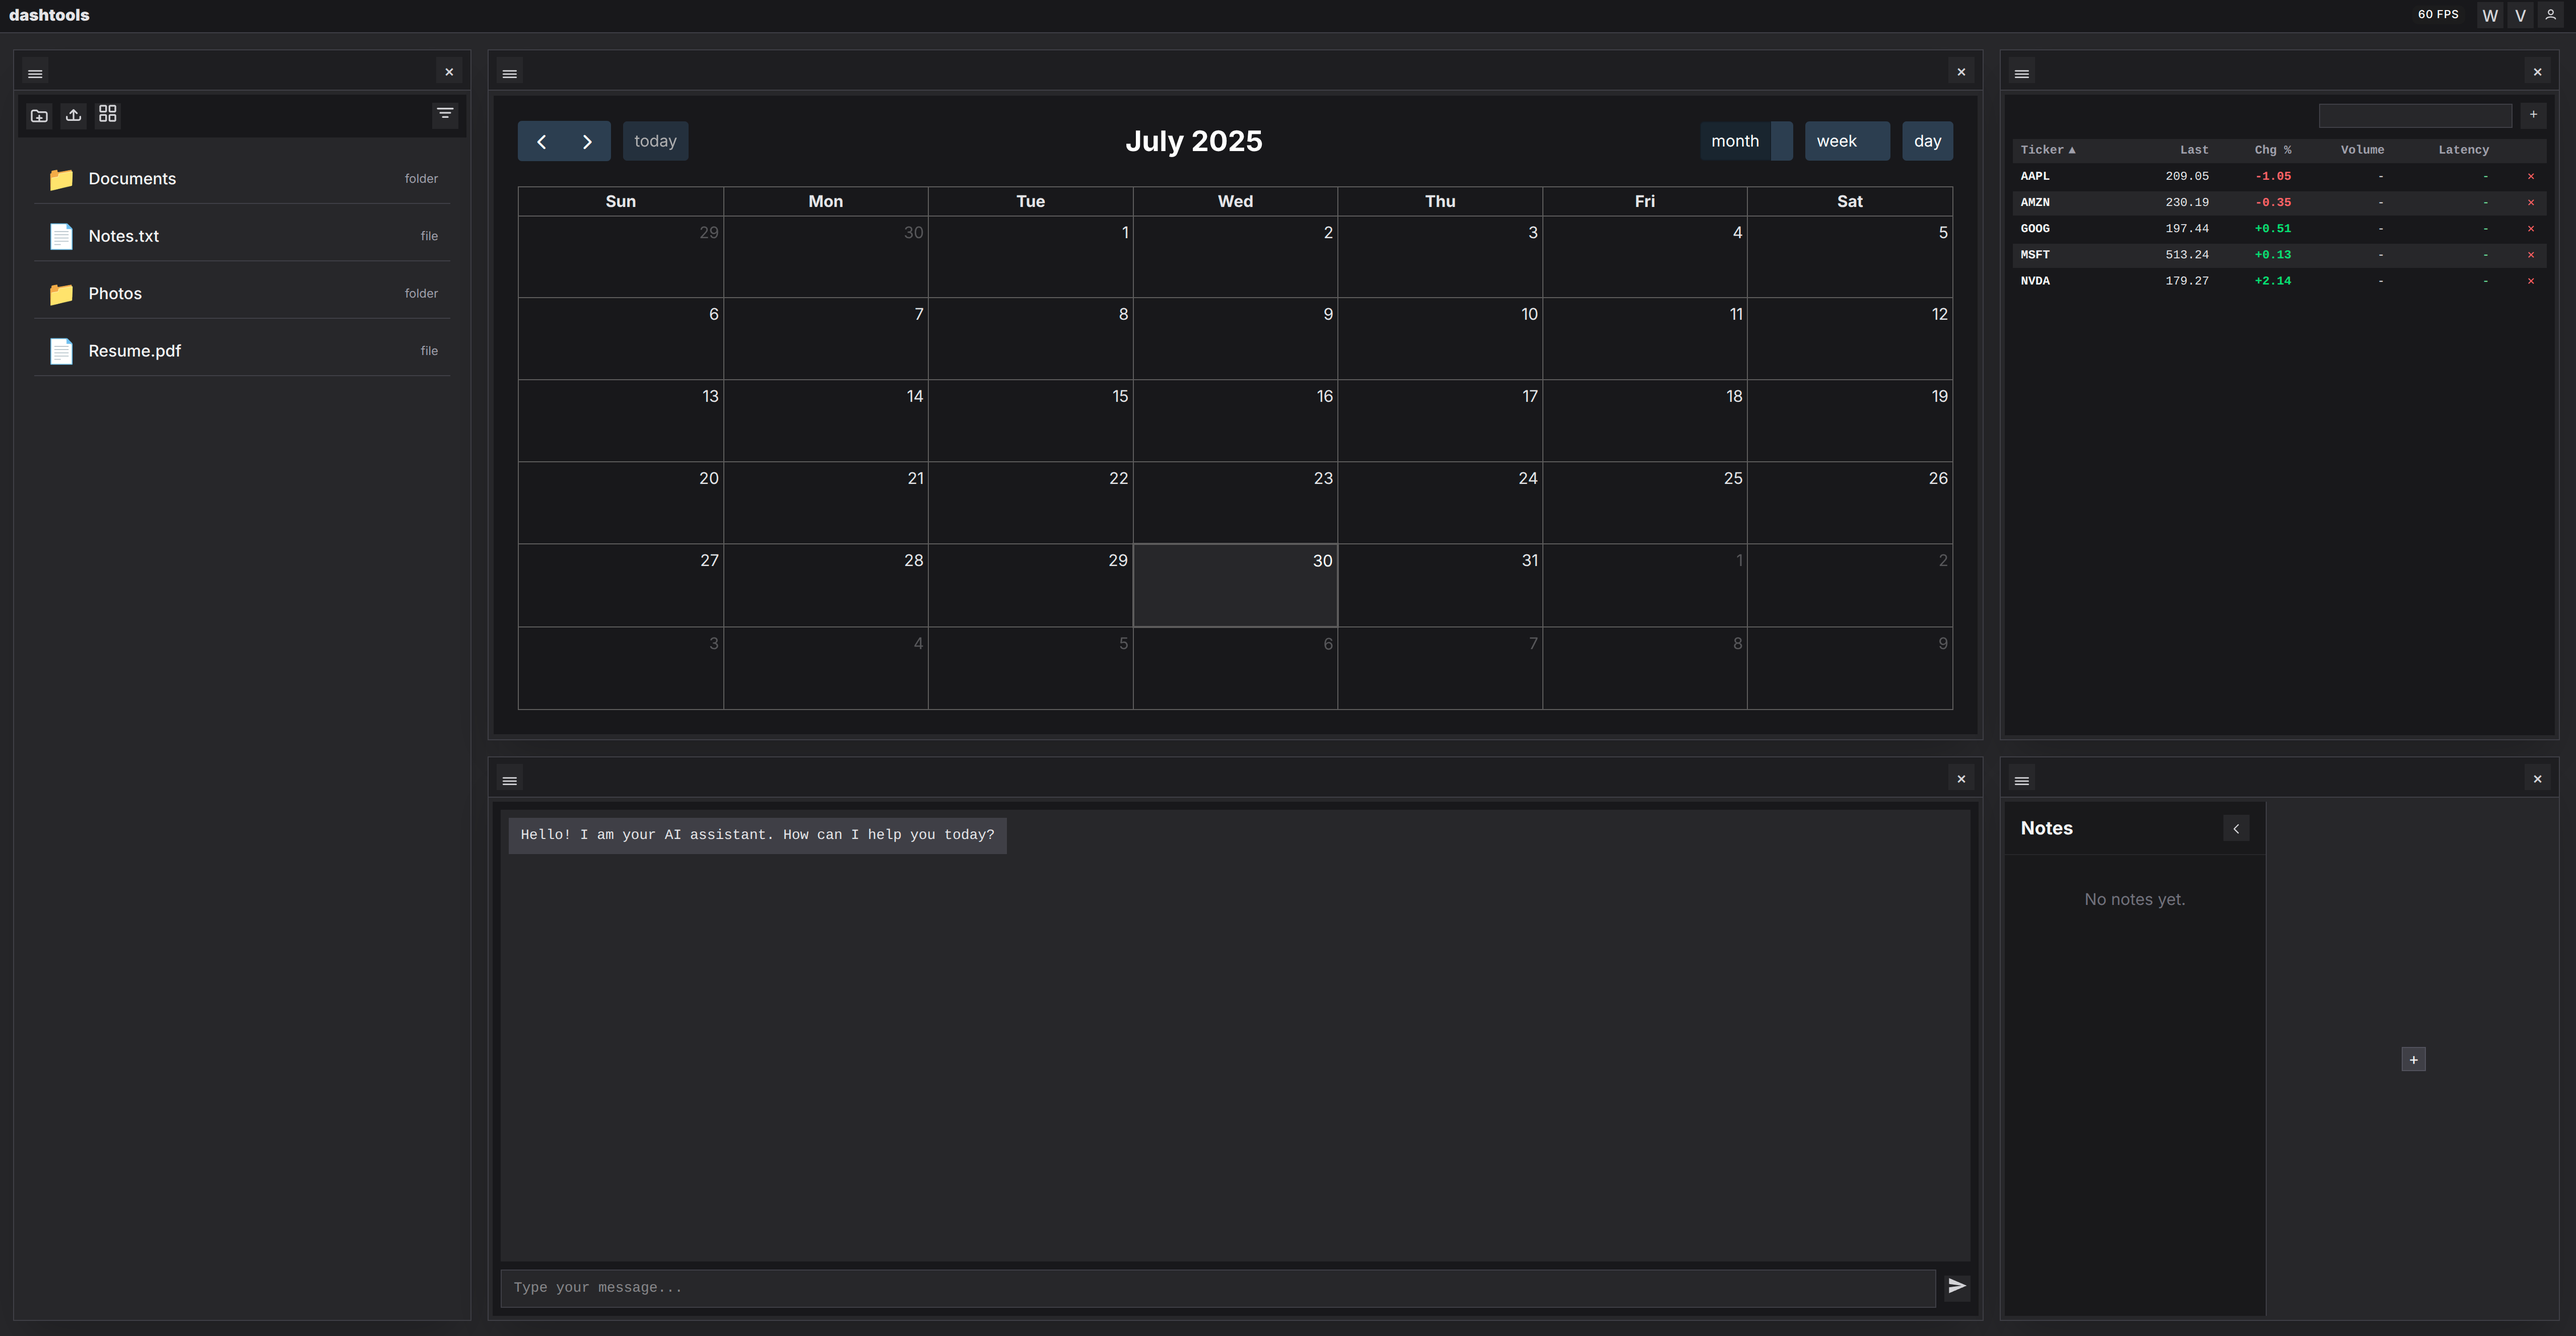
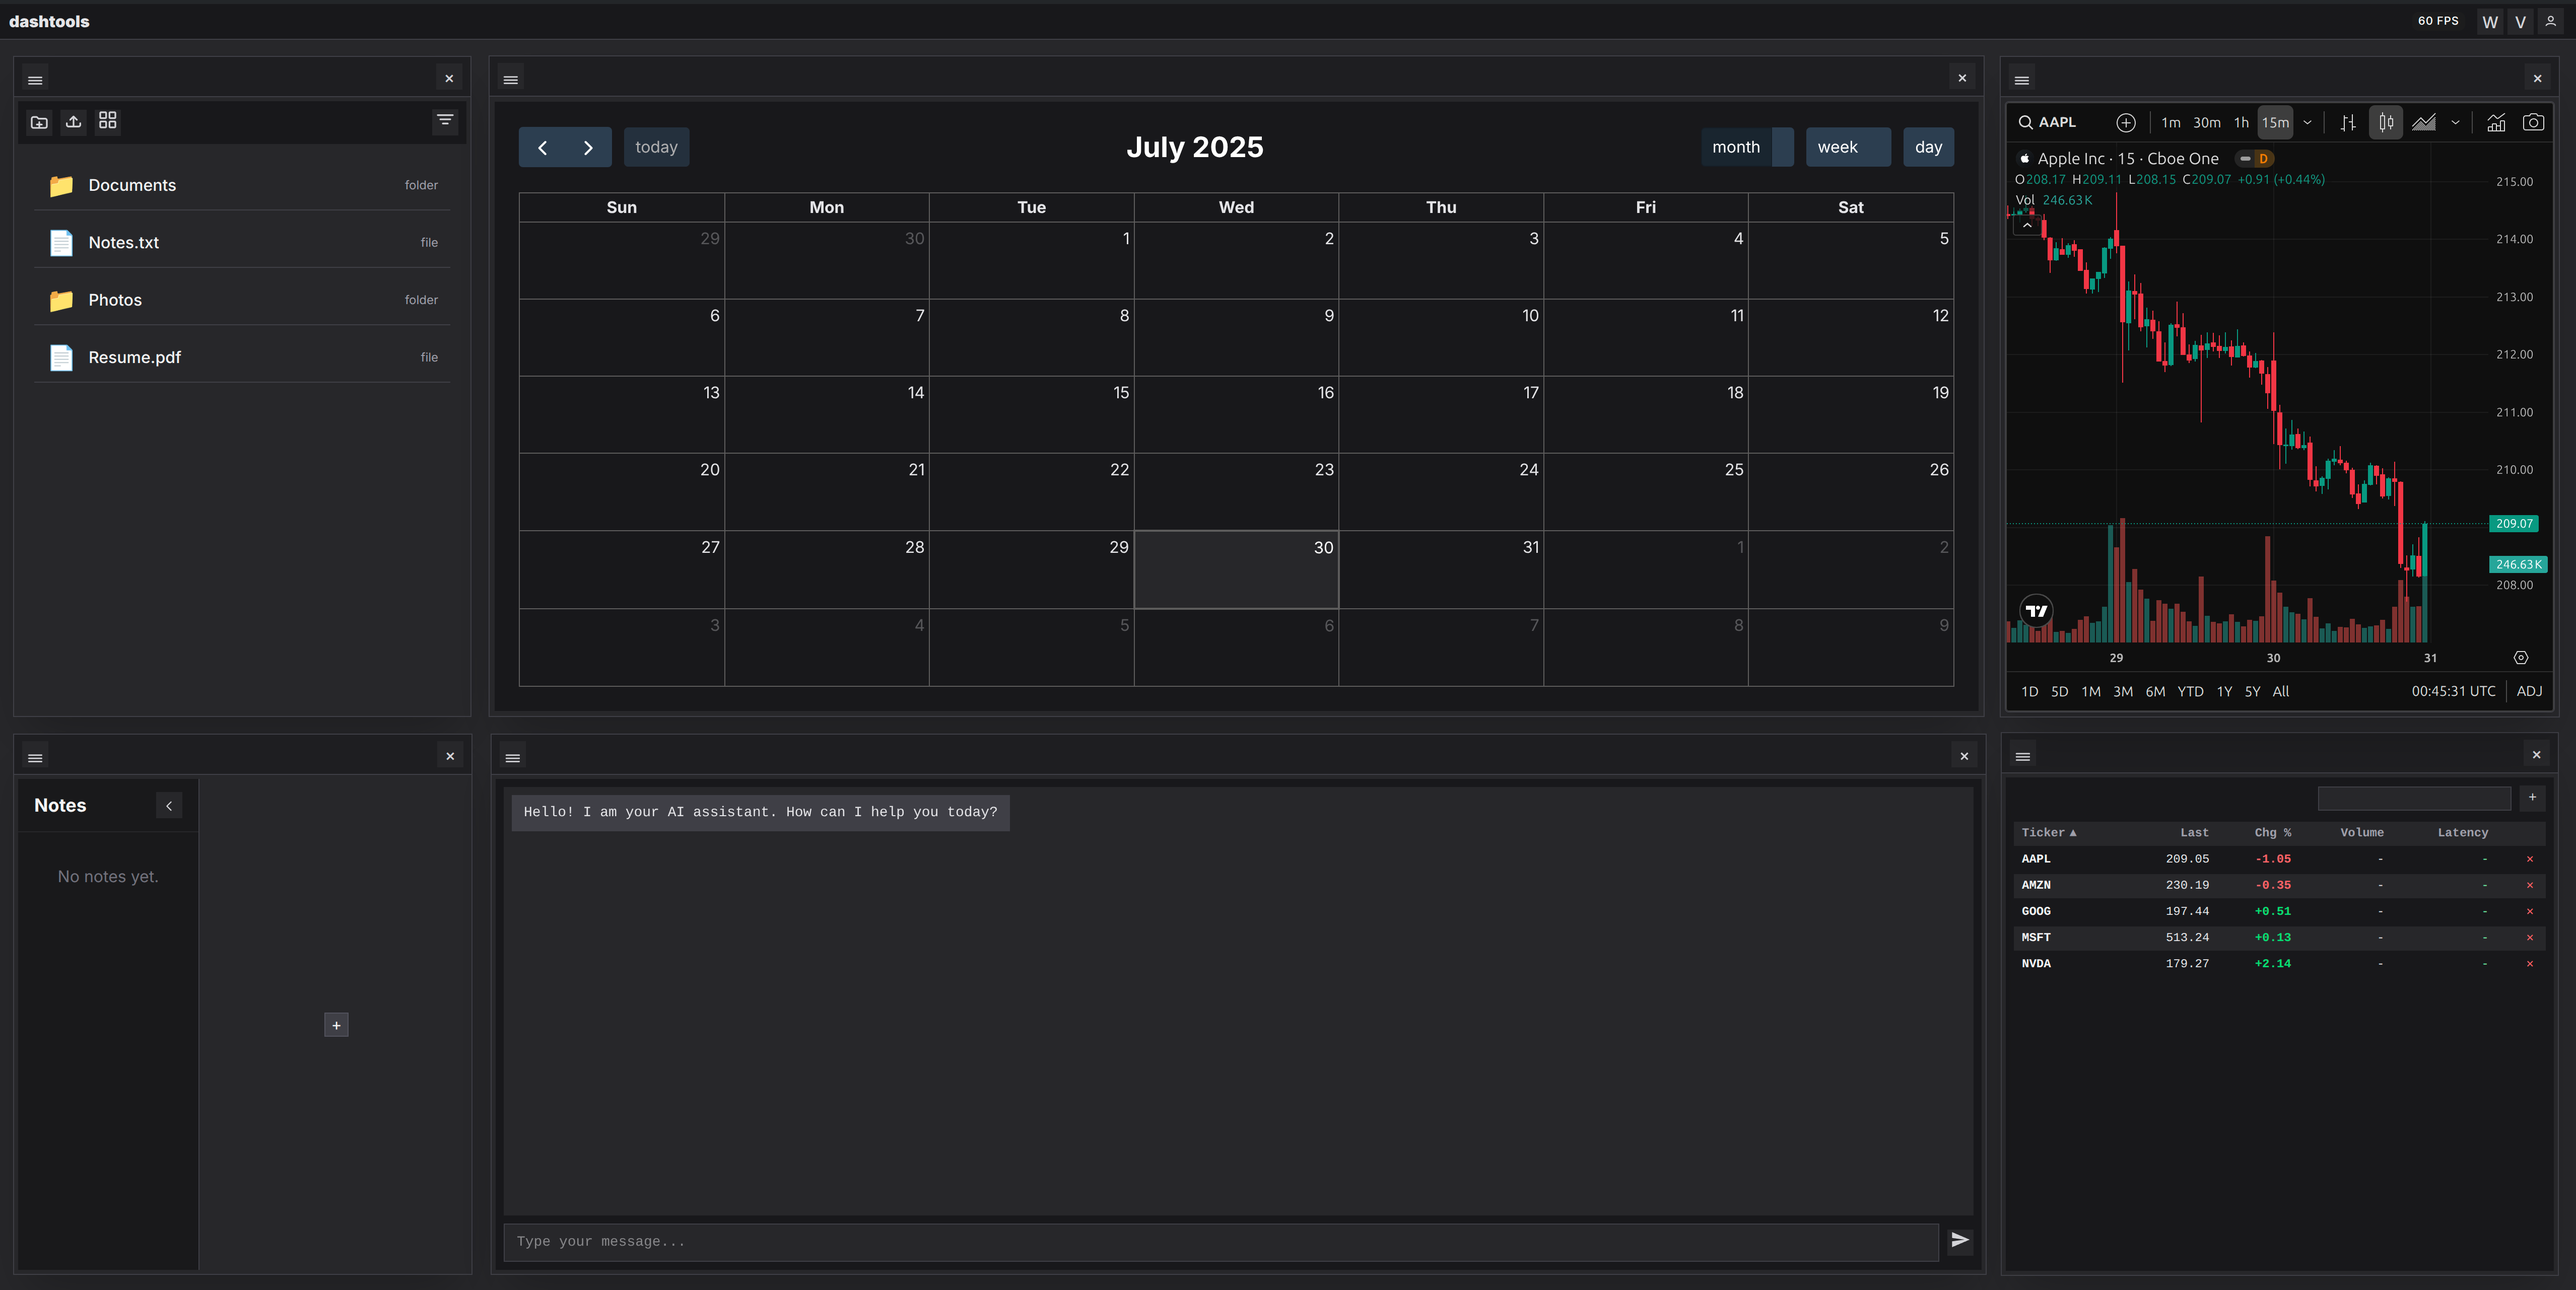
* updated default layout

diff --git a/src/hooks/useInitialWorkspaceLayout.ts b/src/hooks/useInitialWorkspaceLayout.ts
@@ -22,14 +22,16 @@ export function useInitialWorkspaceLayout({
         const sidebarWidth = Math.max(300, Math.floor(w * 0.18));
         const rightWidth = Math.max(320, Math.floor(w * 0.22));
         const centerWidth = w - sidebarWidth - rightWidth - GAP * 2;
+        const leftHeight = h;
         const topHeight = Math.floor(h * 0.55) - GAP / 2;
         const bottomHeight = h - topHeight - GAP;
         const windows = [
-          { x: GAP, y: GAP, width: sidebarWidth, height: h, title: 'Files', content: 'files' as WindowContent, notes: '' },
+          { x: GAP, y: GAP, width: sidebarWidth, height: leftHeight, title: 'Files', content: 'files' as WindowContent, notes: '' },
           { x: GAP + sidebarWidth + GAP, y: GAP, width: centerWidth, height: topHeight, title: 'Calendar', content: 'calendar' as WindowContent, notes: '' },
-          { x: GAP + sidebarWidth + GAP + centerWidth + GAP, y: GAP, width: rightWidth, height: topHeight, title: 'Quote Monitor', content: 'quotemonitor' as WindowContent, notes: '' },
+          { x: GAP + sidebarWidth + GAP + centerWidth + GAP, y: GAP, width: rightWidth, height: topHeight, title: 'Stock Chart', content: 'stockchart' as WindowContent, notes: '' },
+          { x: GAP, y: GAP + topHeight + GAP, width: sidebarWidth, height: bottomHeight, title: 'Notes', content: 'notes' as WindowContent, notes: 'Welcome!' },
           { x: GAP + sidebarWidth + GAP, y: GAP + topHeight + GAP, width: centerWidth, height: bottomHeight, title: 'Chatbot', content: 'chatbot' as WindowContent, notes: '' },
-          { x: GAP + sidebarWidth + GAP + centerWidth + GAP, y: GAP + topHeight + GAP, width: rightWidth, height: bottomHeight, title: 'Notes', content: 'notes' as WindowContent, notes: 'Welcome!' },
+          { x: GAP + sidebarWidth + GAP + centerWidth + GAP, y: GAP + topHeight + GAP, width: rightWidth, height: bottomHeight, title: 'Quote Monitor', content: 'quotemonitor' as WindowContent, notes: '' },
         ];
         windows.forEach(win => {
           addWindow(win);
